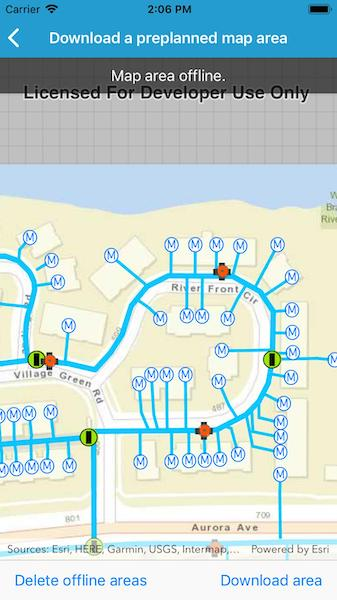
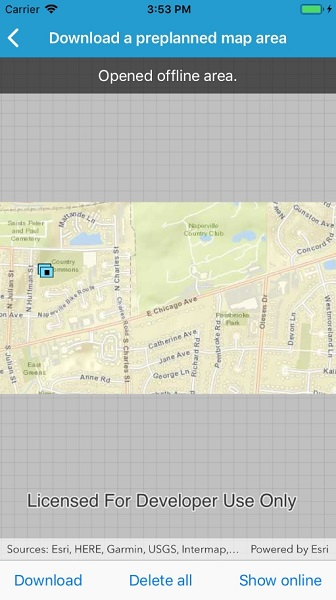
Added iOS

diff --git a/src/iOS/Xamarin.iOS/Samples/Map/DownloadPreplannedMap/DownloadPreplannedMap.cs b/src/iOS/Xamarin.iOS/Samples/Map/DownloadPreplannedMap/DownloadPreplannedMap.cs
@@ -3,8 +3,8 @@
 // Licensed under the Apache License, Version 2.0 (the "License"); you may not use this file except in compliance with the License.
 // You may obtain a copy of the License at: http://www.apache.org/licenses/LICENSE-2.0
 //
-// Unless required by applicable law or agreed to in writing, software distributed under the License is distributed on an 
-// "AS IS" BASIS, WITHOUT WARRANTIES OR CONDITIONS OF ANY KIND, either express or implied. See the License for the specific 
+// Unless required by applicable law or agreed to in writing, software distributed under the License is distributed on an
+// "AS IS" BASIS, WITHOUT WARRANTIES OR CONDITIONS OF ANY KIND, either express or implied. See the License for the specific
 // language governing permissions and limitations under the License.
 
 using ArcGISRuntime.Samples.Managers;
@@ -39,6 +39,7 @@ namespace ArcGISRuntimeXamarin.Samples.DownloadPreplannedMap
         private UILabel _helpLabel;
         private UIActivityIndicatorView _activityIndicator;
         private UINavigationController _tableDisplayController;
+        private UIBarButtonItem _showOnlineButton;
 
         private MapAreaViewModel _mapAreaViewModel;
 
@@ -56,6 +57,9 @@ namespace ArcGISRuntimeXamarin.Samples.DownloadPreplannedMap
 
         // Hold a list of available map areas.
         private readonly List<PreplannedMapArea> _mapAreas = new List<PreplannedMapArea>();
+
+        // Most recently opened map package.
+        private MobileMapPackage _mobileMapPackage;
 
         public DownloadPreplannedMap()
         {
@@ -112,11 +116,20 @@ namespace ArcGISRuntimeXamarin.Samples.DownloadPreplannedMap
             {
                 // Something unexpected happened, show the error message.
                 Debug.WriteLine(ex);
-                new UIAlertView("There was an error", ex.ToString(), (IUIAlertViewDelegate) null, "OK", null).Show();
+                new UIAlertView("There was an error", ex.ToString(), (IUIAlertViewDelegate)null, "OK", null).Show();
             }
         }
 
-        void _mapAreaViewModel_MapSelected(object sender, PreplannedMapArea area)
+        private void ShowOnline_Click(object sender, EventArgs e)
+        {
+            // Show the online map.
+            _myMapView.Map = _originalMap;
+
+            // Disable the button.
+            _showOnlineButton.Enabled = false;
+        }
+
+        private void _mapAreaViewModel_MapSelected(object sender, PreplannedMapArea area)
         {
             // Dismiss the table view.
             _tableDisplayController.DismissViewController(true, null);
@@ -127,6 +140,9 @@ namespace ArcGISRuntimeXamarin.Samples.DownloadPreplannedMap
 
         private async void DownloadMapAreaAsync(PreplannedMapArea mapArea)
         {
+            // Close the current mobile package.
+            _mobileMapPackage?.Close();
+
             // Set up UI for downloading.
             _activityIndicator.StartAnimating();
             _helpLabel.Text = "Downloading map area...";
@@ -139,22 +155,26 @@ namespace ArcGISRuntimeXamarin.Samples.DownloadPreplannedMap
             {
                 try
                 {
-                    MobileMapPackage localMapArea = await MobileMapPackage.OpenAsync(path);
-                    _myMapView.Map = localMapArea.Maps.First();
+                    _mobileMapPackage = await MobileMapPackage.OpenAsync(path);
+                    _myMapView.Map = _mobileMapPackage.Maps.First();
 
                     _helpLabel.Text = "Opened offline area.";
+                    _showOnlineButton.Enabled = true;
                     _activityIndicator.StopAnimating();
                     return;
                 }
                 catch (Exception e)
                 {
                     Debug.WriteLine(e);
-                    new UIAlertView("Couldn't open offline map area. Proceeding to take area offline.", e.ToString(), (IUIAlertViewDelegate) null, "OK", null).Show();
+                    new UIAlertView("Couldn't open offline map area. Proceeding to take area offline.", e.ToString(), (IUIAlertViewDelegate)null, "OK", null).Show();
                 }
             }
 
             // Create download parameters.
             DownloadPreplannedOfflineMapParameters parameters = await _offlineMapTask.CreateDefaultDownloadPreplannedOfflineMapParametersAsync(mapArea);
+
+            // Set the update mode to not receive updates.
+            parameters.UpdateMode = PreplannedUpdateMode.NoUpdates;
 
             // Create the job.
             DownloadPreplannedOfflineMapJob job = _offlineMapTask.DownloadPreplannedOfflineMap(parameters, path);
@@ -166,6 +186,9 @@ namespace ArcGISRuntimeXamarin.Samples.DownloadPreplannedMap
             {
                 // Download the area.
                 DownloadPreplannedOfflineMapResult results = await job.GetResultAsync();
+
+                // Set the current mobile map package.
+                _mobileMapPackage = results.MobileMapPackage;
 
                 // Handle possible errors and show them to the user.
                 if (results.HasErrors)
@@ -184,7 +207,7 @@ namespace ArcGISRuntimeXamarin.Samples.DownloadPreplannedMap
                     }
 
                     // Show the message.
-                    new UIAlertView("Warning!", errors, (IUIAlertViewDelegate) null, "OK", null).Show();
+                    new UIAlertView("Warning!", errors, (IUIAlertViewDelegate)null, "OK", null).Show();
                 }
 
                 // Show the downloaded map.
@@ -194,16 +217,17 @@ namespace ArcGISRuntimeXamarin.Samples.DownloadPreplannedMap
             {
                 // Report any errors.
                 Debug.WriteLine(ex);
-                new UIAlertView("Downloading map area failed", ex.ToString(), (IUIAlertViewDelegate) null, "OK", null).Show();
+                new UIAlertView("Downloading map area failed", ex.ToString(), (IUIAlertViewDelegate)null, "OK", null).Show();
             }
             finally
             {
                 _activityIndicator.StopAnimating();
                 _helpLabel.Text = "Map area offline.";
+                _showOnlineButton.Enabled = true;
             }
         }
 
-        void Job_ProgressChanged(object sender, EventArgs e)
+        private void Job_ProgressChanged(object sender, EventArgs e)
         {
             // Because the event is raised on a background thread, the dispatcher must be used to
             // ensure that UI updates happen on the UI thread.
@@ -226,19 +250,12 @@ namespace ArcGISRuntimeXamarin.Samples.DownloadPreplannedMap
             UIPopoverPresentationController pc = _tableDisplayController.PopoverPresentationController;
             if (pc != null)
             {
-                pc.BarButtonItem = (UIBarButtonItem) sender;
+                pc.BarButtonItem = (UIBarButtonItem)sender;
                 pc.PermittedArrowDirections = UIPopoverArrowDirection.Down;
                 pc.Delegate = new ppDelegate();
             }
 
             PresentViewController(_tableDisplayController, true, null);
-        }
-
-        private void DeleteAllAreas()
-        {
-            // Delete all data from the temporary data folder.
-            Directory.Delete(_offlineDataFolder, true);
-            Directory.CreateDirectory(_offlineDataFolder);
         }
 
         private void DeleteAreas_Click(object sender, EventArgs e)
@@ -252,25 +269,24 @@ namespace ArcGISRuntimeXamarin.Samples.DownloadPreplannedMap
                 // Reset the map.
                 _myMapView.Map = _originalMap;
 
-                // Wait for the garbage collector to get the hint.
-                // Areas can't be deleted until handles to geodatabase tables are released.
-                GC.Collect();
-                GC.WaitForPendingFinalizers();
-                GC.Collect();
+                // Close the current mobile package.
+                _mobileMapPackage?.Close();
 
-                // Delete everything.
-                DeleteAllAreas();
+                // Delete all data from the temporary data folder.
+                Directory.Delete(_offlineDataFolder, true);
+                Directory.CreateDirectory(_offlineDataFolder);
             }
             catch (Exception ex)
             {
                 // Report the error.
                 Debug.WriteLine(ex);
-                new UIAlertView("Deleting map area failed", ex.ToString(), (IUIAlertViewDelegate) null, "OK", null).Show();
+                new UIAlertView("Deleting map area failed", ex.ToString(), (IUIAlertViewDelegate)null, "OK", null).Show();
             }
             finally
             {
                 _activityIndicator.StopAnimating();
                 _helpLabel.Text = "Deleted offline areas.";
+                _showOnlineButton.Enabled = false;
             }
         }
 
@@ -287,18 +303,22 @@ namespace ArcGISRuntimeXamarin.Samples.DownloadPreplannedMap
         public override void LoadView()
         {
             // Create the views.
-            View = new UIView {BackgroundColor = UIColor.White};
+            View = new UIView { BackgroundColor = UIColor.White };
 
             _myMapView = new MapView();
             _myMapView.TranslatesAutoresizingMaskIntoConstraints = false;
+
+            _showOnlineButton = new UIBarButtonItem("Show online", UIBarButtonItemStyle.Plain, ShowOnline_Click) { Enabled = false };
 
             UIToolbar toolbar = new UIToolbar();
             toolbar.TranslatesAutoresizingMaskIntoConstraints = false;
             toolbar.Items = new[]
             {
-                new UIBarButtonItem("Delete offline areas", UIBarButtonItemStyle.Plain, DeleteAreas_Click),
+                new UIBarButtonItem("Download", UIBarButtonItemStyle.Plain, ShowAreas_Click),
                 new UIBarButtonItem(UIBarButtonSystemItem.FlexibleSpace),
-                new UIBarButtonItem("Download area", UIBarButtonItemStyle.Plain, ShowAreas_Click)
+                new UIBarButtonItem("Delete all", UIBarButtonItemStyle.Plain, DeleteAreas_Click),
+                new UIBarButtonItem(UIBarButtonSystemItem.FlexibleSpace),
+                _showOnlineButton
             };
 
             _helpLabel = new UILabel
@@ -347,9 +367,17 @@ namespace ArcGISRuntimeXamarin.Samples.DownloadPreplannedMap
             base.ViewDidLoad();
             Initialize();
         }
+
+        public override void ViewWillDisappear(bool animated)
+        {
+            base.ViewWillDisappear(animated);
+
+            // Close the current mobile package.
+            _mobileMapPackage?.Close();
+        }
     }
 
-    class MapAreaViewModel : UITableViewSource
+    internal class MapAreaViewModel : UITableViewSource
     {
         private readonly List<PreplannedMapArea> _maps;
         private const string CellIdentifier = "LayerTableCell";
